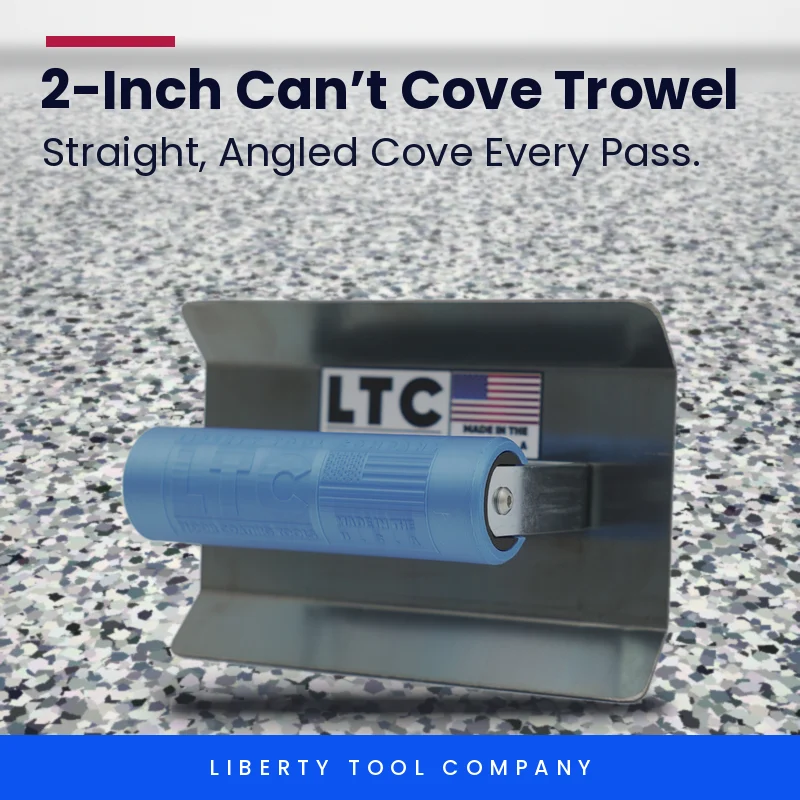
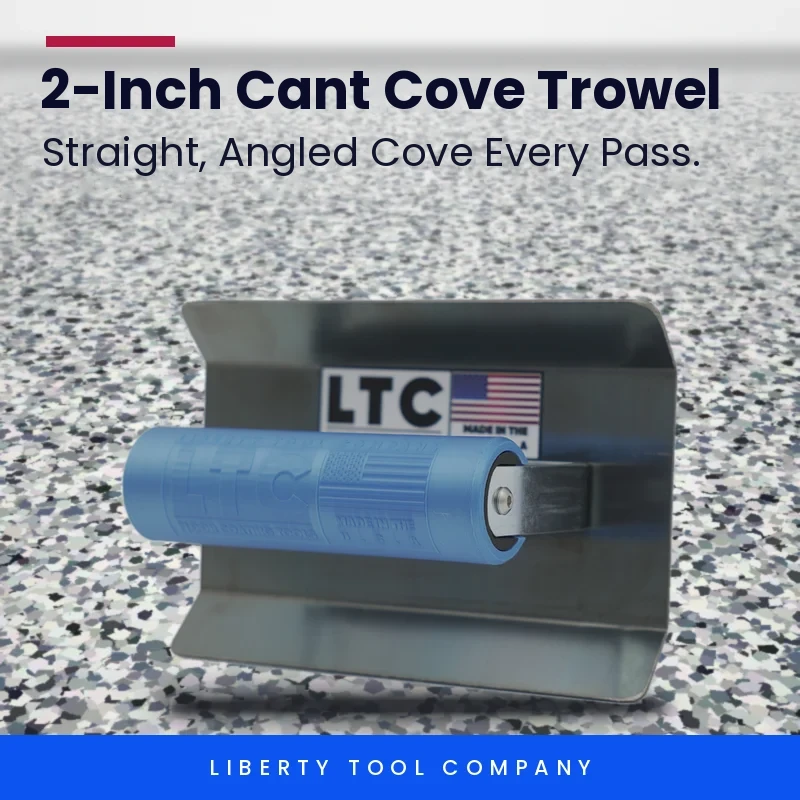
Fix Cant Cove spelling and add LTC Instagram
- Cant Cove Trowel names fixed on the website, partner portal and admin (was Can't Cove)
- Redrew the 2-Inch Cant Cove and Cant Cove w/ 45 card images with the corrected titles
- Instagram (@liberty_tool_company) added to the footer, the Organization sameAs data and llms.txt

diff --git a/public/option-2/index.html b/public/option-2/index.html
@@ -809,6 +809,7 @@ input[type=range]{accent-color:#B31942}
       <span>Text Or Call 24/7 <a href="tel:2397448403" style="color: #FFFFFF; font-weight: 700">239-744-8403</a></span>
       <a href="mailto:sales@libertytoolcompany.com" style="color: #DDE5FF">sales@libertytoolcompany.com</a>
       <span>712 W. Cienega Ave, Unit A<br>San Dimas, CA 91773</span>
+      <a href="https://www.instagram.com/liberty_tool_company/" target="_blank" rel="noopener me" style="display: inline-flex; align-items: center; gap: 8px; color: #DDE5FF"><svg aria-hidden="true" width="18" height="18" viewBox="0 0 24 24" fill="none" stroke="currentColor" stroke-width="2"><rect x="3" y="3" width="18" height="18" rx="5"></rect><circle cx="12" cy="12" r="4"></circle><circle cx="17.5" cy="6.5" r="1" fill="currentColor" stroke="none"></circle></svg>Instagram: @liberty_tool_company</a>
     </div>
   </div>
   <div style="max-width: 1240px; margin: 0 auto; padding: 20px 24px 32px; border-top: 1px solid #ffffff22; font-size: 13px; display: flex; flex-wrap: wrap; justify-content: space-between; gap: 10px">
@@ -1079,8 +1080,8 @@ var TOOLS = [
   { id: 'ct4t', group: 'trowel', name: '4" Standard Cove Trowel w/ 45° Taper', tag: 'LTC Trowels', sku: 'LTC-45CTW45', price: 31.99, img: '/assets/card-ct4t.webp', alt: '/assets/sq-ct4t.webp', body: 'A 4 inch standard cove trowel with a 45 degree taper.', points: ['4 inch standard cove', '45° taper', 'Made in the USA'], url: '4-standard-cove-trowel-w45' },
   { id: 'ct6', group: 'trowel', name: '6" Standard Cove Trowel', tag: 'LTC Trowels', sku: 'LTC-65CT', price: 29.99, img: '/assets/card-ct6.webp', alt: '/assets/sq-ct6.webp', body: 'A 6 inch standard cove trowel for taller cove details.', points: ['6 inch standard cove', 'Made in the USA'], url: '6-standard-cove-trowel' },
   { id: 'ct6t', group: 'trowel', name: '6" Standard Cove Trowel w/ 45° Taper', tag: 'LTC Trowels', sku: 'LTC-65CTW45', price: 32.99, img: '/assets/card-ct6t.webp', alt: '/assets/sq-ct6t.webp', body: 'A 6 inch standard cove trowel with a 45 degree taper.', points: ['6 inch standard cove', '45° taper', 'Made in the USA'], url: '6-standard-cove-trowel-w45' },
-  { id: 'cct', group: 'trowel', name: '2" Can’t Cove Trowel', tag: 'LTC Trowels', sku: 'LTC-CCT', price: 34.99, img: '/assets/card-cct.webp', alt: '/assets/sq-cct.webp', body: 'A 2 inch cant cove trowel for shaping a straight angled cove.', points: ['2 inch cant cove', 'Made in the USA'], url: '2-cant-cove-trowel' },
-  { id: 'cct45', group: 'trowel', name: '2" Can’t Cove Trowel w/ 45° Taper', tag: 'LTC Trowels', sku: 'LTC-CCTW45', price: 39.99, img: '/assets/card-cct45.webp', alt: '/assets/sq-cct45.webp', body: 'A 2 inch cant cove trowel with a 45 degree taper.', points: ['2 inch cant cove', '45° taper', 'Made in the USA'], url: '2-cant-cove-trowel-w45' },
+  { id: 'cct', group: 'trowel', name: '2" Cant Cove Trowel', tag: 'LTC Trowels', sku: 'LTC-CCT', price: 34.99, img: '/assets/card-cct.webp?v=2', alt: '/assets/sq-cct.webp', body: 'A 2 inch cant cove trowel for shaping a straight angled cove.', points: ['2 inch cant cove', 'Made in the USA'], url: '2-cant-cove-trowel' },
+  { id: 'cct45', group: 'trowel', name: '2" Cant Cove Trowel w/ 45° Taper', tag: 'LTC Trowels', sku: 'LTC-CCTW45', price: 39.99, img: '/assets/card-cct45.webp?v=2', alt: '/assets/sq-cct45.webp', body: 'A 2 inch cant cove trowel with a 45 degree taper.', points: ['2 inch cant cove', '45° taper', 'Made in the USA'], url: '2-cant-cove-trowel-w45' },
   { id: 'marg', group: 'trowel', name: '8" Marginal Trowel', tag: 'LTC Trowels', sku: '', price: 23.99, img: '/assets/card-marg.webp', body: 'An 8 inch marginal trowel for tight spots, edges and detail work.', points: ['8 inch blade', 'For edges and detail work', 'Made in the USA'], url: '8-marginal-trowel' },
   { id: 'hawk', group: 'trowel', name: 'Patch Hawk', tag: 'LTC Trowels', sku: 'LTC-PH', price: 39.99, img: '/assets/card-hawk.webp', body: 'A hawk for holding patch and cove material while you work.', points: ['Holds patch and cove material', 'Made in the USA'], url: 'patch-hawk' },
   { id: 'strap', group: 'trowel', name: 'Broadcast Strap', tag: 'LTC Broadcast Gear', sku: 'LTC-BCSTRAP', price: 64.99, img: '/assets/card-strap.webp', alt: '/assets/sq-strap2.webp', body: 'A broadcast strap for even, hands-steady broadcasting of flake and aggregate.', points: ['For flake and aggregate broadcast', 'Hands-free carry on big floors', 'Made in the USA'], url: 'broadcast-strap' },

diff --git a/public/admin/option-2/index.html b/public/admin/option-2/index.html
@@ -2110,8 +2110,8 @@ var TRW = [
   { id: 'hawk', name: 'Patch Hawk', sku: 'LTC-PH', gtin: '00850089875125', msrp: 39.99, dist: 25.99, img: '/assets/card-hawk.webp', spec: 'Patch hawk', body: 'A hawk for holding patch and cove material while you work.', pts: ['Holds patch and cove material', 'Made in the USA'] },
   { id: 'snub', name: '6" Snub Flat Hanging Trowel', sku: 'LTC-SNUB', gtin: '00850089875118', msrp: 39.99, dist: 24.50, img: '/assets/card-snub.webp', spec: '6 inch snub-nose flat trowel', body: 'A 6 inch snub-nose flat trowel for hanging and finishing work.', pts: ['6 inch flat blade', 'Snub nose', 'Made in the USA'] },
   { id: 'marg', name: '8" Marginal Trowel', sku: '', gtin: '', msrp: 23.99, dist: 14.00, img: '/assets/card-marg.webp', spec: '8 inch marginal trowel', body: 'An 8 inch marginal trowel for tight spots, edges and detail work.', pts: ['8 inch blade', 'Made in the USA'] },
-  { id: 'cct', name: '2" Can’t Cove Trowel', sku: 'LTC-CCT', gtin: '00850089875088', msrp: 34.99, dist: 20.50, img: '/assets/card-cct.webp', spec: '2 inch cant cove', body: 'A 2 inch cant cove trowel for shaping a straight angled cove.', pts: ['2 inch cant cove', 'Made in the USA'] },
-  { id: 'cct45', name: '2" Can’t Cove Trowel w/ 45° Taper', sku: 'LTC-CCTW45', gtin: '00850089875055', msrp: 39.99, dist: 23.50, img: '/assets/card-cct45.webp', spec: '2 inch cant cove, 45° taper', body: 'A 2 inch cant cove trowel with a 45 degree taper.', pts: ['2 inch cant cove', '45° taper', 'Made in the USA'] },
+  { id: 'cct', name: '2" Cant Cove Trowel', sku: 'LTC-CCT', gtin: '00850089875088', msrp: 34.99, dist: 20.50, img: '/assets/card-cct.webp?v=2', spec: '2 inch cant cove', body: 'A 2 inch cant cove trowel for shaping a straight angled cove.', pts: ['2 inch cant cove', 'Made in the USA'] },
+  { id: 'cct45', name: '2" Cant Cove Trowel w/ 45° Taper', sku: 'LTC-CCTW45', gtin: '00850089875055', msrp: 39.99, dist: 23.50, img: '/assets/card-cct45.webp?v=2', spec: '2 inch cant cove, 45° taper', body: 'A 2 inch cant cove trowel with a 45 degree taper.', pts: ['2 inch cant cove', '45° taper', 'Made in the USA'] },
   { id: 'ct4', name: '4" Standard Cove Trowel', sku: 'LTC-45CT', gtin: '00850089875064', msrp: 28.99, dist: 18.00, img: '/assets/card-ct4.webp', spec: '4 inch standard cove', body: 'A 4 inch standard cove trowel for shaping cove where the floor meets the wall.', pts: ['4 inch standard cove', 'Made in the USA'] },
   { id: 'ct4t', name: '4" Standard Cove Trowel w/ 45° Taper', sku: 'LTC-45CTW45', gtin: '00850089875071', msrp: 31.99, dist: 19.50, img: '/assets/card-ct4t.webp', spec: '4 inch standard cove, 45° taper', body: 'A 4 inch standard cove trowel with a 45 degree taper.', pts: ['4 inch standard cove', '45° taper', 'Made in the USA'] },
   { id: 'ct6', name: '6" Standard Cove Trowel', sku: 'LTC-65CT', gtin: '00850089875057', msrp: 29.99, dist: 18.00, img: '/assets/card-ct6.webp', spec: '6 inch standard cove', body: 'A 6 inch standard cove trowel for taller cove details.', pts: ['6 inch standard cove', 'Made in the USA'] },

diff --git a/public/partner-portal/option-2/index.html b/public/partner-portal/option-2/index.html
@@ -2110,8 +2110,8 @@ var TRW = [
   { id: 'hawk', name: 'Patch Hawk', sku: 'LTC-PH', gtin: '00850089875125', msrp: 39.99, dist: 25.99, img: '/assets/card-hawk.webp', spec: 'Patch hawk', body: 'A hawk for holding patch and cove material while you work.', pts: ['Holds patch and cove material', 'Made in the USA'] },
   { id: 'snub', name: '6" Snub Flat Hanging Trowel', sku: 'LTC-SNUB', gtin: '00850089875118', msrp: 39.99, dist: 24.50, img: '/assets/card-snub.webp', spec: '6 inch snub-nose flat trowel', body: 'A 6 inch snub-nose flat trowel for hanging and finishing work.', pts: ['6 inch flat blade', 'Snub nose', 'Made in the USA'] },
   { id: 'marg', name: '8" Marginal Trowel', sku: '', gtin: '', msrp: 23.99, dist: 14.00, img: '/assets/card-marg.webp', spec: '8 inch marginal trowel', body: 'An 8 inch marginal trowel for tight spots, edges and detail work.', pts: ['8 inch blade', 'Made in the USA'] },
-  { id: 'cct', name: '2" Can’t Cove Trowel', sku: 'LTC-CCT', gtin: '00850089875088', msrp: 34.99, dist: 20.50, img: '/assets/card-cct.webp', spec: '2 inch cant cove', body: 'A 2 inch cant cove trowel for shaping a straight angled cove.', pts: ['2 inch cant cove', 'Made in the USA'] },
-  { id: 'cct45', name: '2" Can’t Cove Trowel w/ 45° Taper', sku: 'LTC-CCTW45', gtin: '00850089875055', msrp: 39.99, dist: 23.50, img: '/assets/card-cct45.webp', spec: '2 inch cant cove, 45° taper', body: 'A 2 inch cant cove trowel with a 45 degree taper.', pts: ['2 inch cant cove', '45° taper', 'Made in the USA'] },
+  { id: 'cct', name: '2" Cant Cove Trowel', sku: 'LTC-CCT', gtin: '00850089875088', msrp: 34.99, dist: 20.50, img: '/assets/card-cct.webp?v=2', spec: '2 inch cant cove', body: 'A 2 inch cant cove trowel for shaping a straight angled cove.', pts: ['2 inch cant cove', 'Made in the USA'] },
+  { id: 'cct45', name: '2" Cant Cove Trowel w/ 45° Taper', sku: 'LTC-CCTW45', gtin: '00850089875055', msrp: 39.99, dist: 23.50, img: '/assets/card-cct45.webp?v=2', spec: '2 inch cant cove, 45° taper', body: 'A 2 inch cant cove trowel with a 45 degree taper.', pts: ['2 inch cant cove', '45° taper', 'Made in the USA'] },
   { id: 'ct4', name: '4" Standard Cove Trowel', sku: 'LTC-45CT', gtin: '00850089875064', msrp: 28.99, dist: 18.00, img: '/assets/card-ct4.webp', spec: '4 inch standard cove', body: 'A 4 inch standard cove trowel for shaping cove where the floor meets the wall.', pts: ['4 inch standard cove', 'Made in the USA'] },
   { id: 'ct4t', name: '4" Standard Cove Trowel w/ 45° Taper', sku: 'LTC-45CTW45', gtin: '00850089875071', msrp: 31.99, dist: 19.50, img: '/assets/card-ct4t.webp', spec: '4 inch standard cove, 45° taper', body: 'A 4 inch standard cove trowel with a 45 degree taper.', pts: ['4 inch standard cove', '45° taper', 'Made in the USA'] },
   { id: 'ct6', name: '6" Standard Cove Trowel', sku: 'LTC-65CT', gtin: '00850089875057', msrp: 29.99, dist: 18.00, img: '/assets/card-ct6.webp', spec: '6 inch standard cove', body: 'A 6 inch standard cove trowel for taller cove details.', pts: ['6 inch standard cove', 'Made in the USA'] },

diff --git a/tools/make_release.py b/tools/make_release.py
@@ -52,6 +52,7 @@ org = {
             'areaServed': 'Worldwide',
             'knowsAbout': ['Tape Caddy', 'cove trowels', 'floor coating tools', 'jobsite tools for installers'],
             'brand': {'@type': 'Brand', 'name': 'The Tape Caddy'},
+            'sameAs': ['https://www.instagram.com/liberty_tool_company/'],
         },
         {'@type': 'WebSite', '@id': SITE_URL + '/#site', 'url': SITE_URL + '/', 'name': 'Liberty Tool Company',
          'publisher': {'@id': SITE_URL + '/#org'}, 'inLanguage': 'en-US'},
@@ -128,6 +129,7 @@ today = datetime.date.today().isoformat()
 - Phone (text or call 24/7): 239-744-8403
 - Email: sales@libertytoolcompany.com
 - Slogan: For Installers. By Installers.
+- Instagram: https://www.instagram.com/liberty_tool_company/
 
 ## Pages
 
